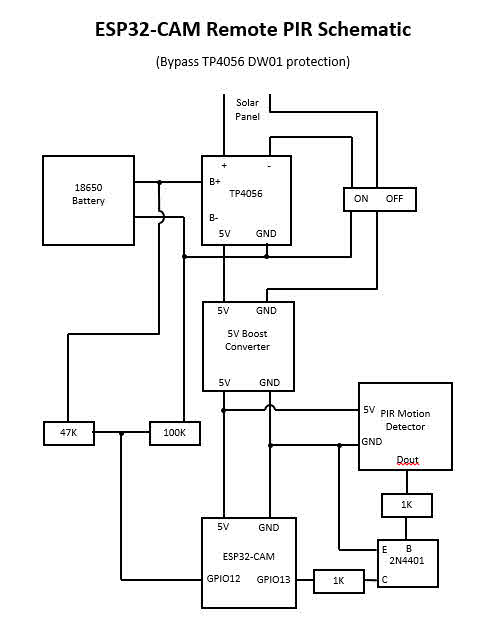
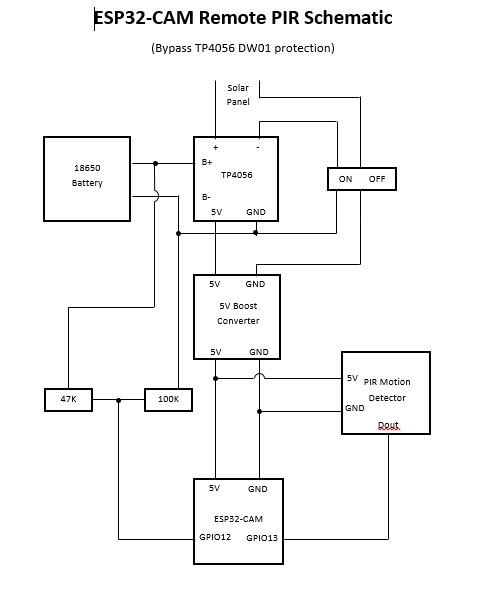
Attempt to improve PIR interface to ESP32CAM

Changed region(s): [[0.0622, 0.0, 0.9336, 0.9779], [0.1245, 0.275, 0.2178, 0.3362]]

diff --git a/README.md b/README.md
@@ -2,7 +2,7 @@
 
 ESP32-CAM Remote PIR Solar Powered Picture/Video Emailer
 
-06/10/2020 Ed Williams 
+04/28/2022 Ed Williams 
 
 This ESP32-CAM Remote PIR can work independent or in conjunction with the ESP32-CAM Video 
 Recorder I also posted in github. This ESP32-CAM Remote PIR has the following capabilities:
@@ -27,15 +27,13 @@ Recorder I also posted in github. This ESP32-CAM Remote PIR has the following ca
   - Battery voltage indicator is connected to GPIO12.
   - PIR motion sensor is connected to GPIO13.
   - Pictures are JPG and videos are AVI.
-  - Uses a simple email utility I enhanced to send buffers or files which is embedded in this
-    sketch and also now found on github. 
+  - Uses a simple email utility I enhanced to send buffers or files which embedded in this
+    sketch and is also now found on github. 
 
-Use a 2N4401 transistor with the collector hooked to a 1K resistor then hooked to GPIO13.
-Connect the Dout wire from the PIR to a 1K resistor then connect to base of transistor. 
-Connect the emitter of the transistor to GND. See ECRP_Schematic.jpg for a picture of the wiring.
+See ECRP_Schematic.jpg for a picture of the wiring.
 
-Used pinMode(GPIO_NUM_13, INPUT_PULLUP) in the setup to pull the pin high. Now when 
-motion is detected, GPIO13 will be pulled low, otherwise it will be high.
+Used pinMode(GPIO_NUM_13, INPUT_PULLDOWN) in the setup to pull the pin low. Now when 
+motion is detected, GPIO13 will be pulled high, otherwise it will be low.
 
 ECRP_Main.jpg shows the main screen for the ESP32-CAM Remote PIR web site.
 
